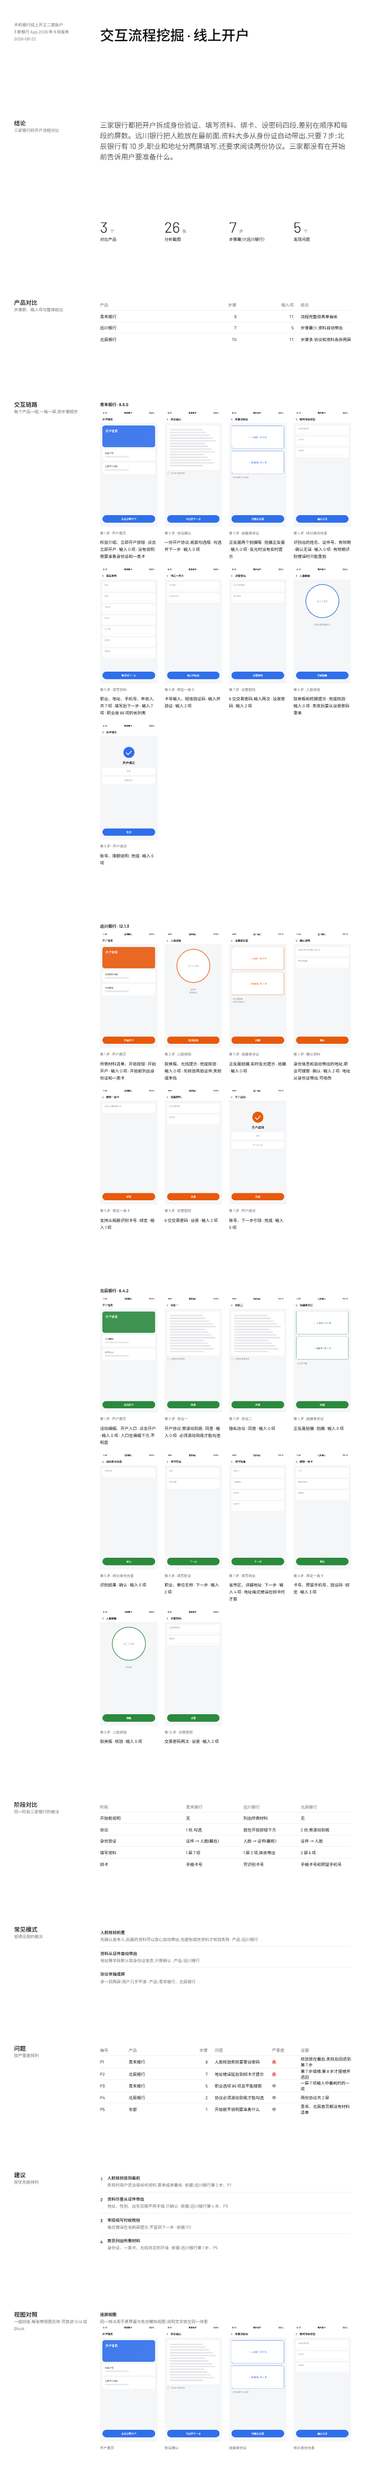
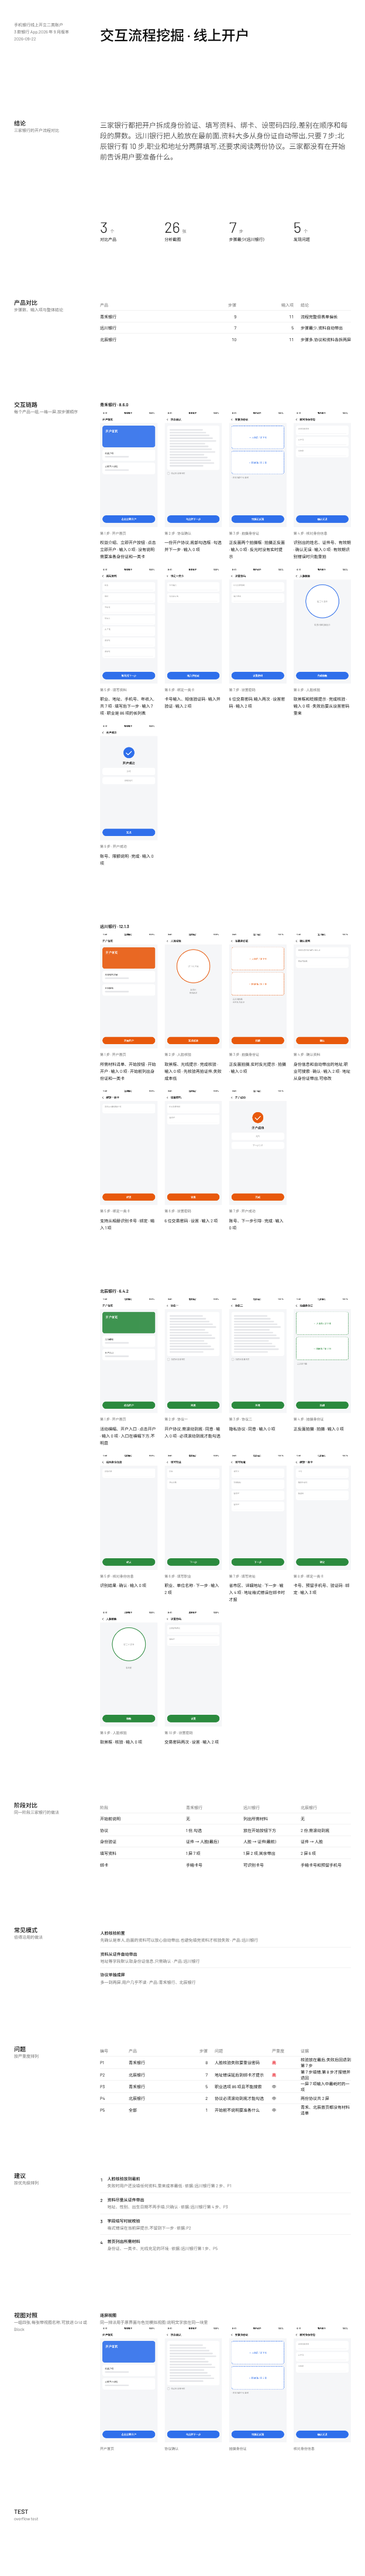
ui-loop: overflow check skips content clipped by a scrolling container
Horizontal strips of screenshots scroll inside their container on purpose;
the container itself is still checked. Also snapshots the k1 round-2
workspace mid-run.

Claude-Session: https://claude.ai/code/session_01B6BvnZawy2aUhBeLpK9EKL

diff --git a/experiments/ui-loop/traces/_components/k1/Page.tsx b/experiments/ui-loop/traces/_components/k1/Page.tsx
@@ -140,6 +140,14 @@ export default function Report() {
           </Grid>
         </Block>
       </Section>
+
+      <Section title="TEST" description="overflow test">
+        <div data-slot="test-scroll" className="overflow-x-auto">
+          <div data-slot="test-row" className="flex gap-6">
+            {[0,1,2,3,4,5,6,7].map(i => <div key={i} data-slot="test-cell" className="h-40 w-64 shrink-0" />)}
+          </div>
+        </div>
+      </Section>
     </Page>
   )
 }
